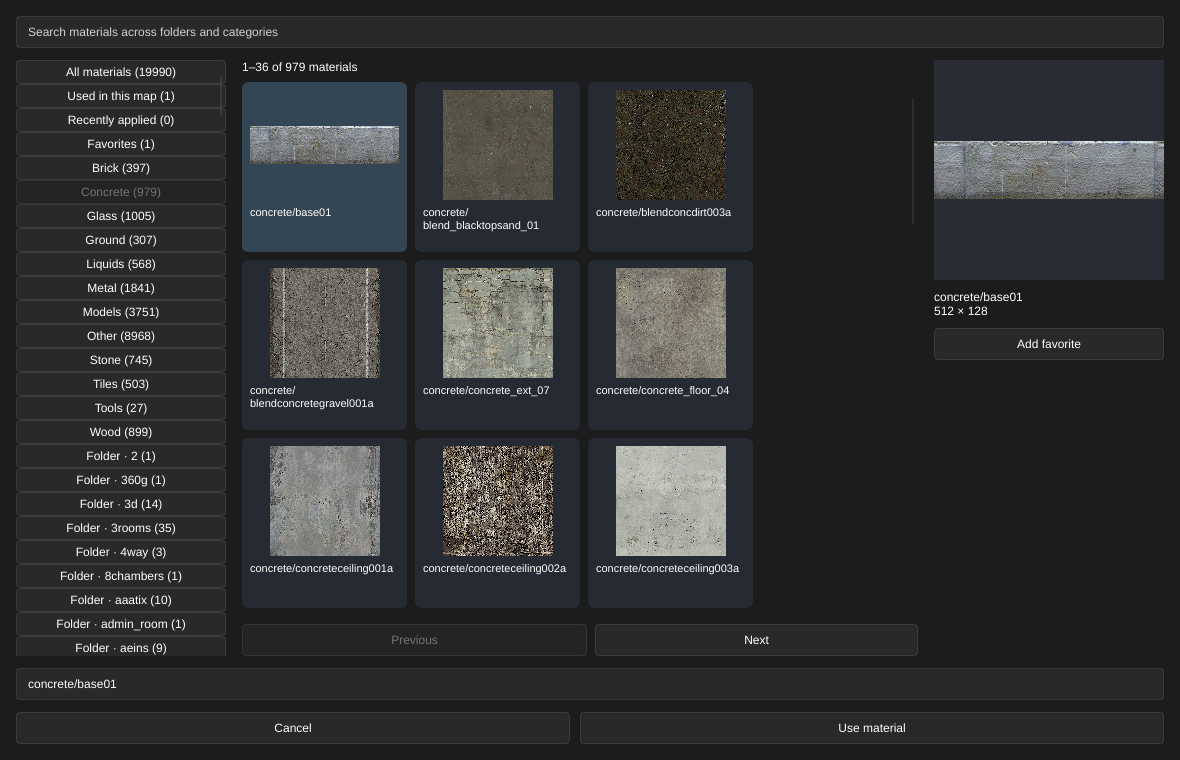
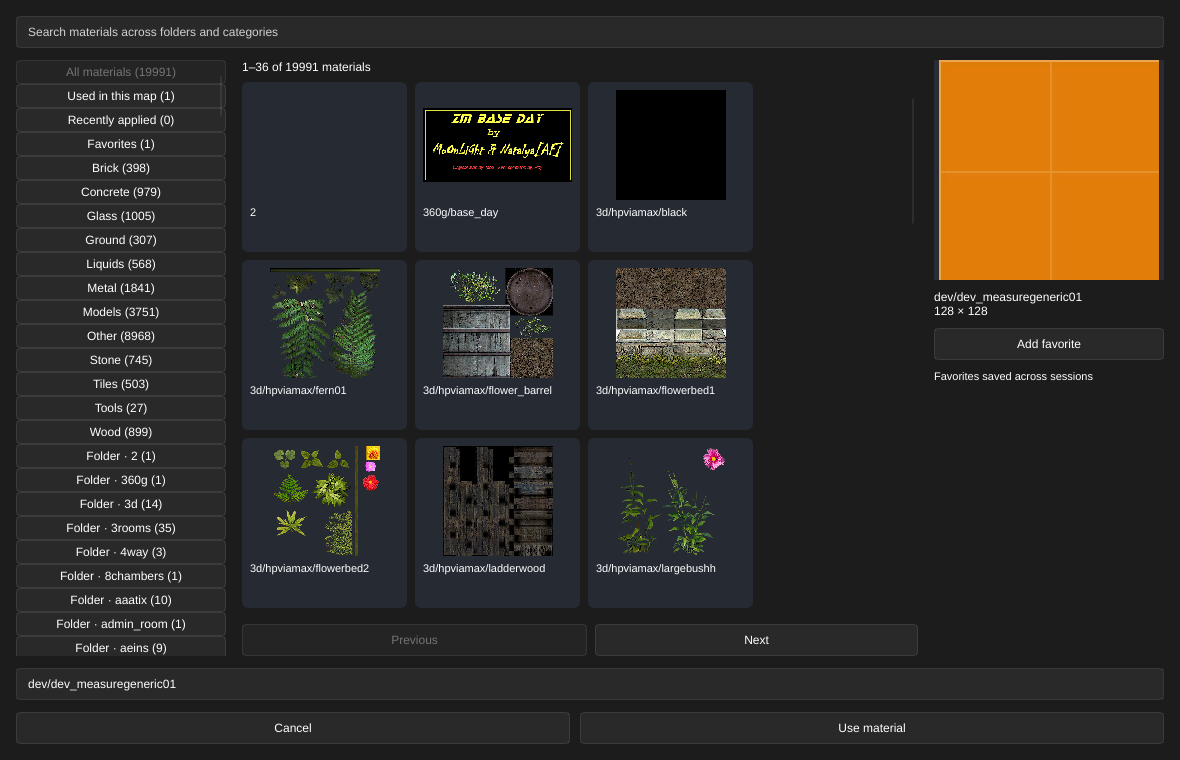
Refresh polygon and material browser documentation - Describe polygon cuts, favorites and spawn checks - Refresh polygon controls, prisms and browser screenshots - Record collision evidence and authored snapping limits - Synchronize browser captures and remove a test clone

diff --git a/crates/editor/src/main.rs b/crates/editor/src/main.rs
@@ -8380,11 +8380,16 @@ mod tests {
         let favorites_directory = tempfile::tempdir().unwrap();
         session.configure_recovery(Ok(favorites_directory.path().join("recovery")));
         session.favorite_material("brick/wall", true).unwrap();
+        material.set_group("all".into());
+        material.set_offset(0);
+        material.set_material("dev/dev_measuregeneric01".into());
         refresh_material_catalog(&material, &mut session);
+        refresh_material_window(&material, &mut session);
         assert_eq!(
             material.get_favorites_status(),
             "Favorites saved across sessions"
         );
+        save_ui_snapshot(material.window(), "material-favorites-persistent");
         let favorite_path = favorites_directory
             .path()
             .join("recovery")

diff --git a/crates/map-core/src/subobject/partition/polygon_tests.rs b/crates/map-core/src/subobject/partition/polygon_tests.rs
@@ -96,7 +96,7 @@ fn polygon_cuts_cover_all_pairs_and_replay_material_prisms_with_original_surface
                             },
                             edge_parameters,
                         };
-                        let part = plan_partitions_at(&original, &[cut.clone()])
+                        let part = plan_partitions_at(&original, std::slice::from_ref(&cut))
                             .unwrap()
                             .remove(0);
                         assert_eq!(part.cut().unwrap(), cut);

diff --git a/README.md b/README.md
@@ -362,21 +362,23 @@ changing it requires a new preview before Apply.
 **Cancel** closes the tool and drops its draft. Both directions have been checked
 through saved-map native compilation; CS:S runtime coverage remains separate.
 
-Choose **Flat partition** to stage two pieces before raising them. Select one
-quad face per brush. Choose an across-face direction for two quads, or
-**Trim corner** for a triangle and pentagon, then **Stage flat partition**.
+Choose **Flat partition** to stage two pieces for keeping or extrusion. Select one
+convex face with three to eight corners per brush. Choose a boundary-edge pair,
+or **Trim corner** to cut off a corner, then **Stage flat partition**. Quad
+faces retain their two across-face directions and four trim-corner choices.
 The viewport shows the dividing edge while the original brush stays unchanged.
 Use **Highlight pieces** and **Frame highlighted pieces** to inspect either
 piece. You can also click a visible piece in the viewport; Ctrl toggles its
 highlight and an empty ordinary click clears highlights. Hidden objects and
 foreground brushes follow the same visibility rules as face picking.
-Enter the **Shared ridge height** and **Preview ridge** to raise both
-pieces together; **Return to flat** restores the staged surface.
+When both pieces are quads, enter the **Shared ridge height** and **Preview ridge**
+to raise them together; **Return to flat** restores the staged surface.
 
 **Apply raised partition** records one undo step. **Discard preview** restores
 the original face selection, and **Cancel** closes the tool. **Keep flat pieces**
 saves the dividing intent without changing brush geometry. Save the map, reopen
-it later, and use **Saved flat pieces → Resume pieces** to inspect or raise them.
+it later, and use **Saved flat pieces → Resume pieces** to inspect or extrude them,
+or raise a supported two-quad ridge.
 **Remove saved** removes an intent, including one whose source was deleted or
 changed. Keeping, removing and applying raised pieces each share ordinary undo.
 Applying a raised partition consumes its saved flat intent in the same edit.
@@ -408,8 +410,9 @@ inputs or sliders. **Preview cut** creates unequal or diagonal pieces while
 retaining the original face. Keep these positions for later or extrude the
 pieces. Saved positions and piece identity survive reflection and reopening.
 Shared ridges can use adjusted endpoints when both raised quad pieces remain
-planar and convex. Triangle/pentagon cuts offer Keep and Extrude in the menu. A diagonal cut that would bend a roof is rejected while
-retaining the flat preview. Adjust the positions, extrude the pieces, or use
+planar and convex. Cuts without two quad pieces offer Keep and Extrude in the
+menu. A diagonal cut that would bend a roof is rejected while retaining the
+flat preview. Adjust the positions, extrude the pieces, or use
 **Reset cut to midpoint**. The bottom footer keeps Apply, Discard and Cancel
 accessible when the settings scroll.
 
@@ -449,9 +452,16 @@ brush is hidden by the tool-material filter.
 | --- | --- |
 | ![Roof ridge direction, height and Apply/Discard/Cancel controls](docs/images/brush-roof-ridge.png) | ![Two roof planes joined at the raised opposing edge midpoints](docs/images/component-roof-ridge.png) |
 
-Core edge discovery supports convex faces with three to eight corners; polygon
-cut topology, saved membership and its UI/MCP authoring remain in development.
-Current partition controls support quad source faces.
+Flat cuts support convex faces with three to eight corners and create two pieces
+with three to nine vertices each. Saved original-corner membership keeps piece
+materials attached after reflection and reopening. Ridges require two quad
+pieces; the operation menu offers flat keeping and extrusion for other shapes.
+One batch supports 16 source brushes and 32 extruded pieces, with at most 256
+generated planes. Previews validate the complete batch before allocating IDs.
+
+| Polygon cut controls | Octagon source split and extruded |
+| --- | --- |
+| ![Complete polygon cut choices, endpoint sliders and Keep/Cancel controls](docs/images/polygon-partition-controls.png) | ![Two independently styled polygon prisms above an octagonal source face](docs/images/polygon-partition-preview.png) |
 
 Movement and welding support 512 selected components across 16 brushes, with up
 to 64 sides per brush. Duplicate IDs, open/redundant geometry and changes that
@@ -639,9 +649,13 @@ Other issues link you to the affected content for manual editing.
 ![Map issues, face navigation and an explicit repair preview](docs/images/map-checks.png)
 
 Checks include hidden content and inspect applied edits. Custom properties are
-preserved. Material/model checks verify paths; full asset dependencies, spawn
-clearance and engine-specific resource limits need further checks. Compile and
-test in CS:S to validate leaks and playability.
+preserved. Spawn checks warn when a visible team spawn's standing hull overlaps
+visible world or `func_detail` brushes with known player-blocking contents,
+including player clips. Touching floors are allowed; uncertain materials and
+invalid origins report unchecked clearance. Select or Focus locates the spawn.
+Models, terrain, other brush entities, gameplay objectives, full asset
+dependencies and engine-specific resource limits still need further checks.
+Compile and test in CS:S to validate leaks and playability.
 
 ### Design context
 
@@ -719,7 +733,11 @@ Choosing a thumbnail selects a candidate; **Use material** accepts it.
 
 Blank texture fields preserve existing values when selections are mixed.
 Fitting uses the material's real dimensions. Categories are inferred from
-material paths; favorites and recent applications last for the session.
+material paths. Favorites persist across sessions in the configured recovery
+directory; recent applications last for the session. The browser and MCP share
+up to 512 favorites and report storage failures while retaining the previous
+choices. Fix a rejected preferences file and restart to load it again; failed
+saves can be retried.
 
 ### Map textures across faces
 
@@ -1101,6 +1119,9 @@ python -B scripts/validate_partition_material_metadata.py --output /tmp/hammerr-
 python -B scripts/validate_partition_materials.py --output /tmp/hammerr-partition-materials
 python -B scripts/validate_adjusted_partition_ridges.py --output /tmp/hammerr-adjusted-ridges
 python -B scripts/validate_boundary_partitions.py --output /tmp/hammerr-boundary-partitions
+python -B scripts/validate_polygon_partitions.py --output /tmp/hammerr-polygon-partitions
+python -B scripts/validate_material_favorites.py --output /tmp/hammerr-material-favorites
+python -B scripts/validate_spawn_clearance.py --output /tmp/hammerr-spawn-clearance
 python -B scripts/validate_partition_extrusion.py --output /tmp/hammerr-extrusion-check
 python -B scripts/validate_partition_extrusion.py --adjusted --output /tmp/hammerr-adjusted-cut-check
 python -B scripts/validate_texture_lock_modes.py --output /tmp/hammerr-texture-modes-check
@@ -1126,8 +1147,9 @@ to check an idle GUI session with a clean map and empty undo/redo history.
 Each script temporarily opens its fixture, then restores the original file,
 camera, selection and view.
 
-The audit, component source/topology/transform, partition, precision and carving validators
-use private headless sessions and do not accept a GUI URL. Add `--render` to the topology
+The audit, component source/topology/transform, partition, precision, carving,
+favorites and spawn-clearance validators use private headless sessions and do
+not accept a GUI URL. Add `--render` to the topology, boundary or polygon
 validator for offscreen GPU pixel checks without opening a desktop window.
 
 Check extrusion guide visibility with a private offscreen GPU session:
@@ -1224,15 +1246,17 @@ when the field is omitted, including after returning to flat.
 report the setting; raised attached drafts report `texture_mode: "roof_attached"`.
 
 `preview_component_partition` accepts `pairs` and the latest `snapshot`.
-`get_brush_components.partition_choices` lists the two opposing pairs first,
-followed by four adjacent pairs. Opposing cuts make two quads; adjacent cuts make
-a triangle and pentagon. Flat draft topology is returned under `preview.partition`.
+`get_brush_components.partition_choices` lists every boundary-edge pair for
+three-to-eight-corner source faces, with up to 28 choices. Quads retain their two
+opposing pairs first, followed by four adjacent pairs. Opposing quad cuts make
+two quads; adjacent quad cuts make a triangle and pentagon. Flat draft topology
+is returned under `preview.partition`.
 Vertices retain source corner/edge incidence and exact source positions;
 `preview_position` includes the current ridge height. Loops have independent
 IDs **0** and **1** within each brush and inherit `source_side`. Each loop reports
-its `shape` and three to five vertex refs. `preview.partition.ridge_supported`
+its `shape` and three to nine vertex refs. `preview.partition.ridge_supported`
 reports the two-quad shape requirement; positive heights still validate planarity
-and convexity. Adjacent cuts keep the trimmed corner
+and convexity. Adjacent quad cuts keep the trimmed corner
 as triangle **0**, including after reflection and saved reopening.
 `select_component_partitions` takes `partitions: [{solid, partition}]`, a token
 and optional replace/add/remove/toggle mode for highlighting and framing.
@@ -1267,8 +1291,8 @@ neighboring side IDs; each endpoint runs between the sorted corner incidence
 lists reported in vertex provenance. Invalid or collapsed cuts retain the draft.
 Return to flat before adjusting a raised/extruded preview. Save positions with
 Keep, extrude, or raise the adjusted pieces. Positive ridge heights use the
-actual endpoints and require two planar, convex quad roofs. Triangle/pentagon
-pieces can be kept and extruded. Nonplanar cuts are
+actual endpoints and require two planar, convex quad roofs. Cuts without two
+quad pieces can be kept and extruded. Nonplanar cuts are
 rejected atomically; `rise: 0` retains their flat topology.
 `preview.partition.edge_parameters` reports shared values or null for mixed
 sources; saved inspection lists each source's positions. Existing midpoint
@@ -1291,8 +1315,9 @@ remain source projections or the selected geometry attachment policy.
 brushes. Updates replace the token and rebuild from the original source; invalid
 updates retain the previous draft. Tops use their planned material or source
 inheritance; bases retain the original source face material. Outer
-walls inherit neighboring faces, and the divider inherits the source face;
-all four walls receive fresh world UVs and the optional material override.
+walls inherit neighboring faces, and the divider inherits the source face.
+All boundary and divider walls receive fresh world UVs and the optional material
+override.
 Attached top UVs preserve corresponding corners, reported as `top_attached`.
 
 `preview.extrusion` lists every output solid, source piece, owner, bounds and
@@ -1519,6 +1544,12 @@ player spawned inside and fullbright rendering enabled by the engine.
 **The compiler is experimental.** It produces fullbright BSP v20 maps with
 a single visibility cluster. Lights are saved in VMF and carried into BSP
 entities; baked lighting is still pending.
+
+Brush collision includes axial and checked non-axial edge bevels. Native sloped,
+rotated, reflected and thin-brush fixtures verify supporting planes, emitted BSP
+brushsides and swept hulls against an independent geometric reference. CS:S
+collision runtime validation and physics output remain unfinished.
+Very small brush rotations can still expose authored-plane snapping errors.
 
 VVIS, VRAD, physics collision, water volumes, compiled displacements,
 static props, areaportals, overlays, cubemaps and origin brushes remain
